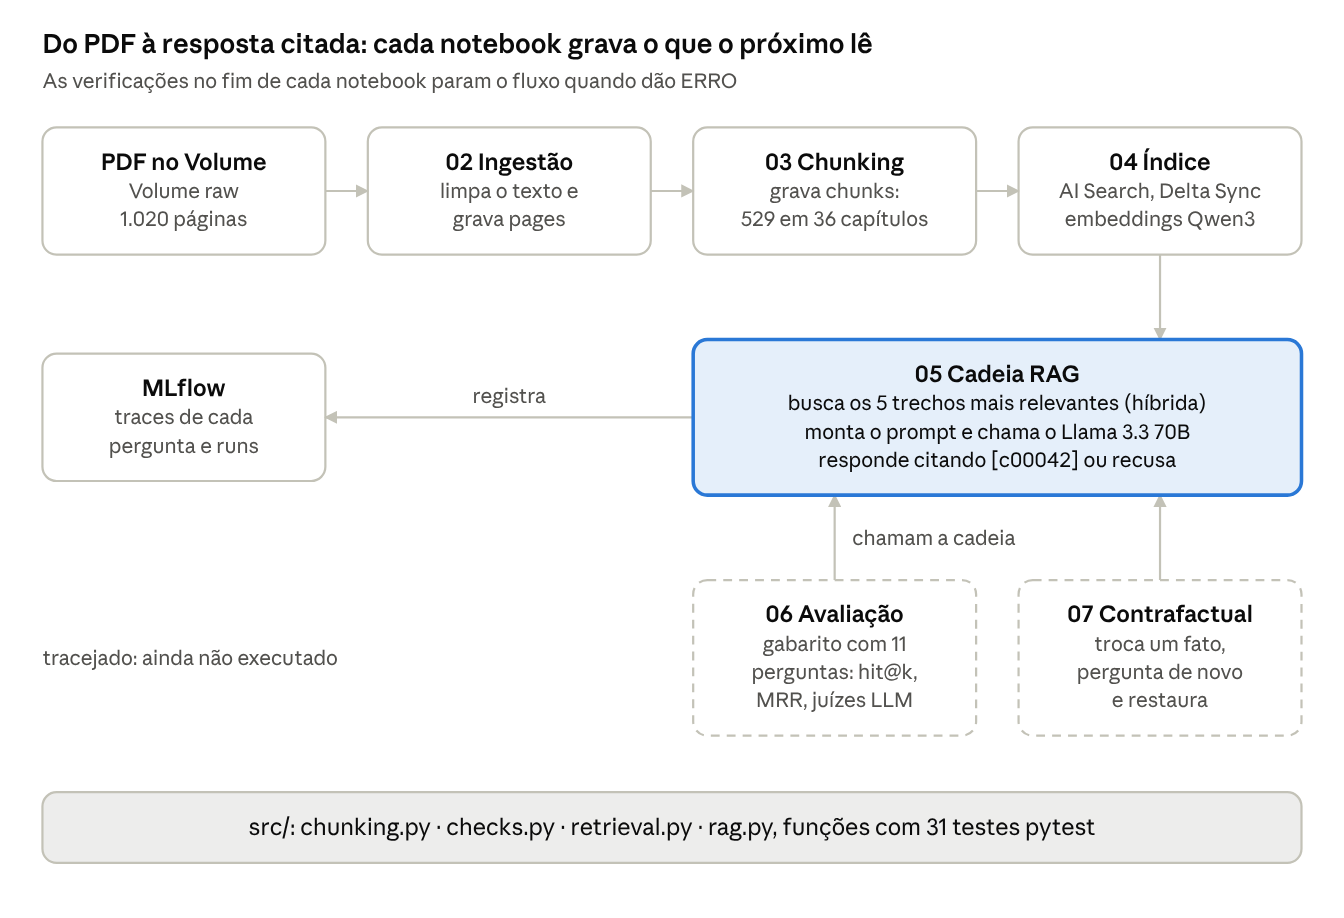
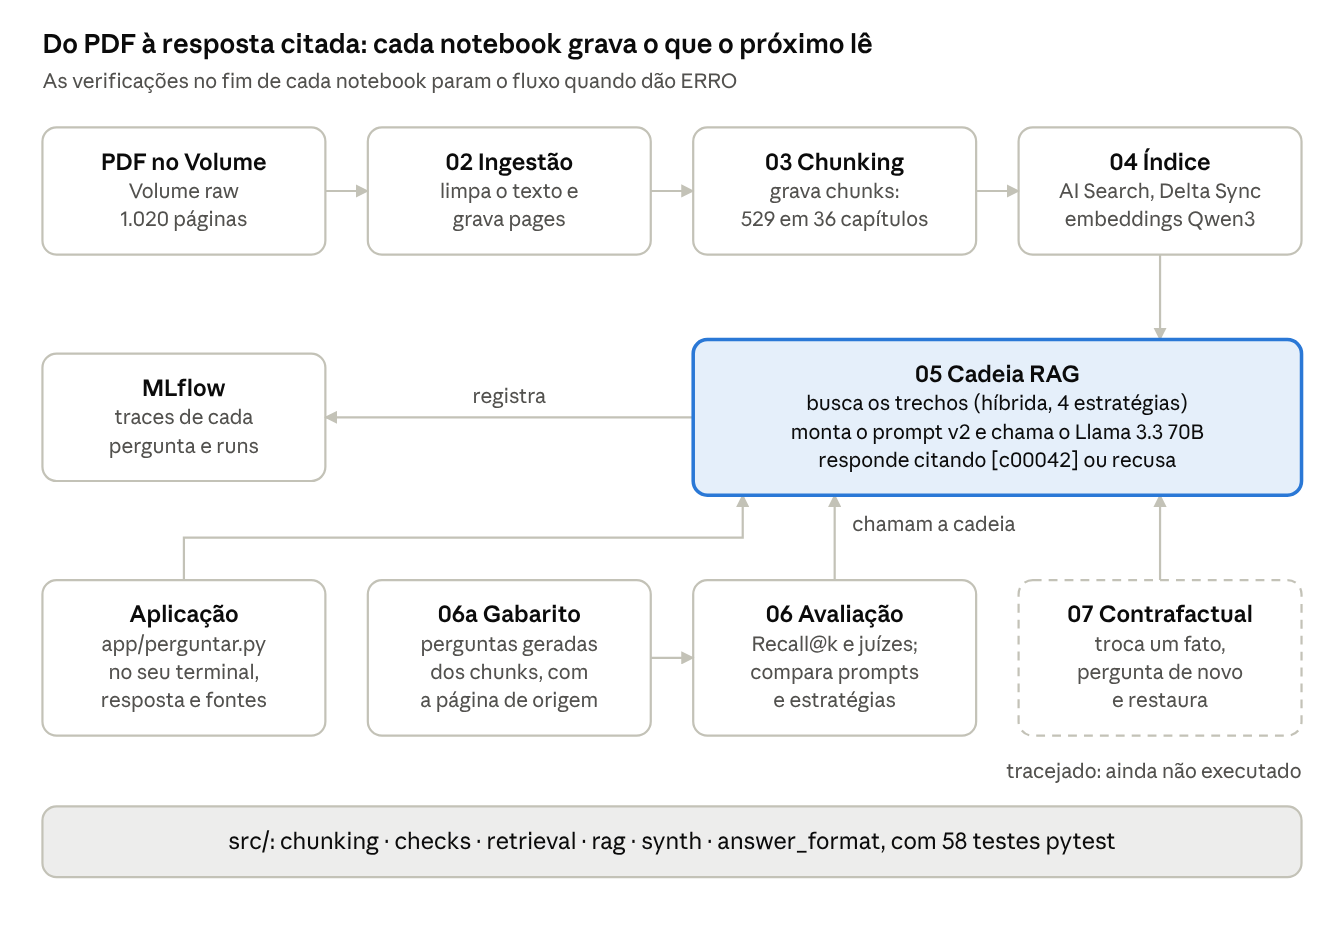
Documentação atualizada até 28/10
- docs/progresso.md: visão geral, linha do tempo, arquitetura com 06a e a
  aplicação, problemas de ambiente, limpeza do texto e extratores, verificações
  do índice, caso dos anéis de poder, aplicação de terminal, resumo da
  avaliação, estratégias de busca, decisões e pendências
- docs/metricas.md (novo): descrição de cada métrica, resultados da busca e dos
  juízes com gráficos, diagnóstico dos erros de correção, prompt v1 × v2,
  LLM sem contexto, limitações e próximos passos
- docs/discussao-avaliacao.md: caminho "medir antes" escolhido e feito

diff --git a/docs/metricas.md b/docs/metricas.md
@@ -1,0 +1,161 @@
+# RAGMarillion — métricas da avaliação
+
+Atualizado em 28/10/2026 · velosomn
+
+Na primeira avaliação com 150 perguntas sintéticas, a busca híbrida com 5 trechos recuperou a página certa em 91,3% das perguntas, contra 84,7% da busca só vetorial com o mesmo número de trechos; é a configuração que o projeto usa. Na correção das respostas, as configurações de busca empatam dentro da variação dos juízes, e o LLM sozinho, sem busca, acerta 0,5. O prompt v2 subiu a correção de 0,73 para 0,80 sem aumentar as recusas indevidas. Dos erros de correção analisados, a maioria vinha do gabarito sintético ou do juiz, não do RAG.
+
+Este documento descreve primeiro cada métrica e depois discute os resultados.
+
+## As métricas
+
+O notebook 06 mede três coisas separadas: se a busca trouxe o trecho certo, se o sistema recusa quando o livro não tem a resposta e se a resposta final está boa. Todas vão de 0 a 1 e, salvo a recusa indevida, quanto maior, melhor. Cada uma é calculada por pergunta e depois tirada a média.
+
+**Busca pela página** (só nas perguntas com `evidence_pages`, as sintéticas e as manuais marcadas). Um trecho recuperado conta como relevante se cobre a página onde está a resposta. Como a página não depende do chunking, a mesma marcação serve para comparar qualquer configuração.
+
+| Métrica (nome no MLflow) | O que mede | Como é calculada, por pergunta |
+| --- | --- | --- |
+| Recall@k (`recall_at_k`) | Se a resposta chegou ao LLM | 1 se algum dos trechos enviados cobre a página da resposta, senão 0 |
+| MRR (`mrr`) | O quão perto do topo está o primeiro trecho certo | 1 ÷ posição do primeiro trecho relevante: 1º lugar vale 1; 2º, 0,5; 3º, 0,33; nenhum, 0 |
+| nDCG@k (`ndcg_at_k`) | O mesmo que o MRR, com desconto mais suave pela posição | 1 ÷ log₂(1 + posição): 1º lugar vale 1; 2º, 0,63; 3º, 0,5; nenhum, 0 |
+| Precisão@k (`precision_at_k`) | Quanto do contexto enviado é útil | Trechos relevantes ÷ trechos enviados. Depende de k: só compare configurações com o mesmo k |
+| Palavras de contexto (`context_words`) | Quanto texto vai ao LLM | Soma das palavras dos trechos enviados. Uma estratégia que manda mais trechos ganha recall só pelo volume |
+| (`n_with_pages`) | Base de cálculo | Quantas perguntas têm páginas marcadas e entraram nas métricas acima |
+
+**Busca por termos** (todas as perguntas com resposta). É uma aproximação: conta como acerto qualquer trecho que contenha um termo esperado, mesmo que seja de outra parte do livro. "Fëanor" aparece em dezenas de capítulos.
+
+| Métrica | O que mede | Como é calculada, por pergunta |
+| --- | --- | --- |
+| hit@k por termos (`hit_terms`) | Se algum trecho menciona a resposta | 1 se algum dos trechos contém algum termo esperado, senão 0 |
+| MRR por termos (`mrr_terms`) | Posição do primeiro trecho com um termo esperado | 1 ÷ posição, como o MRR |
+
+**Recusa.**
+
+| Métrica | O que mede | Como é calculada, por pergunta |
+| --- | --- | --- |
+| Taxa de recusa (`refusal_rate_unanswerable`) | Nas perguntas sem resposta no livro, se o sistema admite que não sabe em vez de inventar | 1 se a resposta contém "Não encontrei isso nos trechos recuperados", senão 0. Quanto maior, melhor |
+| Recusa indevida (`false_refusal_rate`) | Nas perguntas com resposta, se o sistema recusou mesmo assim | Fração das respostas da amostra dos juízes que são a frase de recusa. Quanto menor, melhor: é o custo de um prompt cauteloso |
+
+**Juízes LLM** (numa amostra de 60 perguntas, por custo). Um modelo lê a pergunta, a resposta e, conforme o juiz, os trechos recuperados e a resposta esperada, e dá sim (1) ou não (0) com uma justificativa. São os juízes prontos do MLflow 3.
+
+| Métrica | Pergunta que o juiz responde | O que compara |
+| --- | --- | --- |
+| Correção (`correctness`) | A resposta está certa? | Resposta do sistema × resposta esperada do gabarito |
+| Apoio nos trechos (`retrieval_groundedness`) | O que a resposta afirma está nos trechos recuperados? | Resposta × trechos. Pega o modelo respondendo de memória ou inventando |
+| Suficiência (`retrieval_sufficiency`) | Os trechos recuperados bastavam para chegar à resposta esperada? | Trechos × resposta esperada. Avalia a busca sem depender da página exata, útil quando a resposta aparece em vários lugares |
+
+Na linha de base sem contexto só existe a correção: sem busca, não há trechos para os outros dois juízes avaliarem. Respostas que não chegam a ser geradas (falha de chamada) são contadas em `n_failed_answers`, e o 06 dá ERRO se houver alguma, porque o juiz as trataria como erradas.
+
+## O que foi avaliado
+
+Três configurações de busca e uma linha de base, todas sobre o mesmo gabarito e com o mesmo LLM (Llama 3.3 70B) gerando as respostas.
+
+| Configuração | Busca | Trechos enviados ao LLM |
+| --- | --- | --- |
+| `ann_k3` | Vetorial: trechos de significado mais parecido com a pergunta | 3 |
+| `ann_k5` | Vetorial | 5 |
+| `hybrid_k5` | Híbrida: vetorial somada à busca por palavra-chave | 5 (configuração atual do projeto) |
+| `llm_sem_contexto` | Nenhuma: o LLM responde de memória | 0 |
+
+Os pares isolam uma mudança de cada vez: `ann_k3` × `ann_k5` mostra o efeito de mandar mais trechos, e `ann_k5` × `hybrid_k5` mostra o efeito da busca por palavra-chave.
+
+**Gabarito (conjunto `dev`):**
+
+- 150 perguntas sintéticas, geradas pelo notebook 06a a partir de chunks sorteados da história; são elas que têm páginas marcadas e entram nas métricas de busca pela página;
+- 7 perguntas manuais na primeira rodada: 5 com resposta (factual, apelidos, nomes parecidos e uma de vários saltos, a de Lúthien e Elrond) e 2 sem resposta no livro; depois entraram 2 de consistência, sobre os anéis de poder;
+- os juízes avaliaram 60 perguntas: as manuais com resposta e as demais sintéticas, a mesma amostra para todas as configurações.
+
+O conjunto `test` (cerca de um terço das perguntas) não foi usado: fica reservado para confirmar a configuração escolhida, uma vez só.
+
+## Resultados da busca
+
+![A busca híbrida acerta a página em 91% das perguntas, 7 pontos acima da vetorial](img/metricas-busca.png)
+
+A busca por palavra-chave é o que mais pesa: com o mesmo número de trechos, a híbrida sobe o recall de 0,847 para 0,913 e põe o trecho certo mais perto do topo. As perguntas citam nomes próprios, e é neles que a busca só vetorial falha.
+
+- **A diferença não parece ruído.** A comparação é pareada, nas mesmas perguntas: nas listas de erros visíveis, pelo menos 8 perguntas são acertadas só pela híbrida, contra 2 (`s003` e `s015`) acertadas só pela vetorial. No total, a híbrida erra 14 perguntas; a vetorial com 5 trechos, 24; com 3, 30.
+- **Mais trechos ajudam menos:** de 3 para 5 trechos, o recall da vetorial sobe 4 pontos, e o MRR quase não muda, porque o trecho certo, quando vem, já costuma estar entre os primeiros.
+- **Precisão@k fica de fora do gráfico** porque depende de k. Com 5 trechos, a híbrida também traz mais trechos úteis (0,305 contra 0,263 da vetorial).
+- **Busca por termos:** 0,98 a 0,99 nas três, alta demais para separar configurações; confirma que ela é uma aproximação fraca.
+- **Erros comuns:** 9 perguntas falham nas três configurações. Podem ser falhas de busca ou perguntas ruins no gabarito, e precisam ser conferidas antes de buscar soluções para elas.
+
+A configuração atual do projeto, `hybrid_k5`, é a melhor das três na busca.
+
+## Resultados dos juízes
+
+![O RAG acerta cerca de 72% das respostas; o LLM sozinho, 50%](img/metricas-juizes.png)
+
+**Causa confirmada: limite de chamadas.** Na primeira rodada, 30 das 60 respostas da `hybrid_k5` e 32 das 60 da linha de base falharam por excesso de chamadas no Free Edition e foram contadas como incorretas, derrubando a correção para 0,317 e 0,2. O notebook 06 agora repete cada chamada que falha, faz uma pausa entre configurações e dá ERRO se alguma resposta não for gerada. No gráfico, essas duas linhas vêm da segunda rodada, sem nenhuma falha.
+
+**A híbrida empata na correção.** 0,717 contra 0,733 da vetorial com 5 trechos é uma pergunta de diferença em 60. A busca melhor não virou mais acertos nesta amostra.
+
+**Os juízes variam entre rodadas.** A suficiência da híbrida foi 0,917 na primeira rodada e 0,883 na segunda, com exatamente os mesmos trechos: 2 perguntas de diferença só pela variação do juiz. Com 60 perguntas, diferenças de até cerca de 5 pontos nos juízes não devem decidir nada.
+
+**A maior perda está na geração, não na busca.** Em cerca de 88% das perguntas os trechos bastavam, mas só cerca de 72% das respostas estão certas: em uns 10 casos o modelo tinha o necessário e errou. O diagnóstico desses casos está abaixo.
+
+O apoio nos trechos fica alto em todas as configurações (0,88 a 0,97): o modelo responde com base no que recebe, e não de memória.
+
+## Diagnóstico dos erros de correção
+
+Na `hybrid_k5` (prompt v1), 10 perguntas tiveram suficiência "sim" e correção "não": os trechos bastavam, mas a resposta foi julgada errada. Só 3 são falhas do RAG.
+
+| Caso | O que aconteceu | Causa |
+| --- | --- | --- |
+| `s015` Novo nome de Beren | O livro dá dois nomes (Erchamion e Camlost); o modelo deu um, o gabarito esperava o outro | Gabarito: duas respostas certas |
+| `s050` Filha de Morwen e Húrin | Eles tiveram duas filhas (Lalaith e Nienor); o modelo citou a outra | Gabarito: duas respostas certas |
+| `s176` O que Sauron desejava? | Pergunta vaga; a resposta detalhada sai do trecho | Gabarito: pergunta vaga |
+| `s019` O que aconteceu com Húrin? | A resposta esperada não fala de Húrin | Gabarito: pergunta e resposta não combinam |
+| `s031` Espada de Elendil | "Ficou partida" e "quebrou" são o mesmo; o juiz concordou na justificativa e marcou "não" | Juiz inconsistente |
+| `s089` Morada de Caranthir | "Helevorn" e "Helevom" (grafia dupla no PDF) | Juiz rígido com a grafia |
+| `s016` Glaurung e Túrin | A resposta inclui a libertação; o juiz exigiu a palavra exata | Juiz rígido |
+| `q04` Nomes de Túrin | Citou 3 de 4 nomes | RAG: resposta incompleta |
+| `s165` O que Sauron disse aos homens | Resumiu só parte do trecho | RAG: resposta incompleta |
+| `s168` Amandil após zarpar | Recusou, com a resposta nos trechos | RAG: recusa por cautela |
+
+Se os 7 casos de gabarito e juiz forem descontados, a correção real fica perto de 0,83. Os problemas do gabarito vêm de como o 06a gera as perguntas: uma pergunta pode ter resposta única no trecho, mas mais de uma no livro. O prompt de geração precisa exigir resposta única no livro inteiro.
+
+## Prompt v1 × v2
+
+O v2 pede para afirmar só o que os trechos dizem, com a mesma força ("participou" não vira "criou"), citar o trecho certo, listar todos os itens e responder em parte em vez de recusar. Foi comparado com o v1 na `hybrid_k5`, com o texto já limpo de novo, em 152 perguntas com páginas e 60 nos juízes, sem nenhuma resposta com falha.
+
+| | Correção | Apoio nos trechos | Suficiência | Recusa indevida | Recusa sem resposta |
+| --- | --- | --- | --- | --- | --- |
+| v1 | 0,733 | 0,950 | 0,917 | 0,049 | 1,0 |
+| v2 | 0,800 | 0,933 | 0,867 | 0,033 | 1,0 |
+
+A suficiência só avalia os trechos, que são idênticos nas duas linhas, e mesmo assim variou 5 pontos: é a medida do ruído dos juízes. A correção subiu 6,7 pontos, um pouco acima disso, e a recusa indevida caiu; o v2 virou o padrão. A busca não mudou: Recall@5 de 0,914.
+
+## LLM sem contexto
+
+Com todas as respostas geradas, o Llama 3.3 70B respondendo de memória acertou 0,5 das 60 perguntas, contra cerca de 0,72 do RAG: 22 pontos, ou 13 perguntas. O 0,2 da primeira rodada era efeito das chamadas que falharam.
+
+- **O modelo sabe mais do livro do que o esperado:** acerta de memória metade dos detalhes de trechos sorteados.
+- **Mas erra sem avisar e mistura obras:** uma das respostas cita o "Conselho de Elrond" e o Anel encontrado por Bilbo, que são de *O Senhor dos Anéis*, não do Silmarillion.
+- **Um viés a favor do RAG continua:** as perguntas foram criadas a partir do texto desta tradução, e o LLM sozinho pode acertar o fato com outras palavras ou outra grafia de nome. O juiz tolera paráfrase, mas não se sabe quanto.
+
+Nas perguntas manuais, mais famosas, a diferença deve ser menor; com 5 delas, não há base para separar.
+
+## Limitações desta rodada
+
+| Limitação | Efeito | Como resolver |
+| --- | --- | --- |
+| Ruído do gabarito ainda desconhecido | Não se sabe que diferença é pequena demais para importar | Concluir a revisão das 30 perguntas no 06a e registrar a taxa de erro |
+| Uma página de evidência por pergunta | Se a resposta também aparece em outra página, a busca que a traz é contada como erro | Olhar a suficiência ao lado do recall; conferir as 9 perguntas que todas as configurações erram |
+| Perguntas sintéticas de um trecho só | Nada mede perguntas de vários saltos, como a de Lúthien e Elrond (há só uma no `dev`) | Gerar perguntas de dois trechos e medir o recall completo |
+| Juízes numa amostra de 60 | Cada pergunta vale cerca de 0,017 nas médias dos juízes | Ampliar a amostra quando a diferença entre duas configurações for pequena |
+| Uma única execução | Respostas e juízes podem variar um pouco entre execuções | Repetir as configurações finalistas |
+| Mesmo modelo gera e responde | Com a configuração padrão, o Llama cria as perguntas e também responde a elas, o que tende a deixar a avaliação otimista | Usar outro modelo em `SYNTH_LLM_ENDPOINT`, se houver em Serving |
+
+## Próximos passos
+
+- [x] Verificar a correção da `hybrid_k5` no MLflow: 30 respostas tinham falhado por limite de chamadas.
+- [x] Repetir a `hybrid_k5` e a linha de base com novas tentativas e pausas: nenhuma falha na segunda rodada.
+- [x] Ver os casos com suficiência "sim" e correção "não": 7 de 10 eram gabarito ou juiz.
+- [x] Comparar os prompts v1 e v2: ficou o v2.
+- [ ] Registrar a taxa de erro da revisão das 30 perguntas sintéticas.
+- [ ] Melhorar o prompt do 06a (resposta única no livro inteiro, sem perguntas vagas) e regerar.
+- [ ] Gerar as perguntas sintéticas de dois trechos e acrescentar o recall completo.
+- [ ] Avaliar as estratégias de busca (`vizinhos`, `diversa`, `por_nome`), já implementadas, comparando também `context_words`.
+- [ ] Ampliar a amostra dos juízes para reduzir o ruído.
+- [ ] Corrigir a ordem do Job: o `evaluate` deve depender do `Gabarito`.
+
+O andamento geral do projeto está em [progresso.md](progresso.md), e o raciocínio por trás desta avaliação, em [discussao-avaliacao.md](discussao-avaliacao.md).

diff --git a/docs/discussao-avaliacao.md b/docs/discussao-avaliacao.md
@@ -1,6 +1,6 @@
 # Discussão: como avaliar o RAG
 
-Atualizado em 24/10/2026 · velosomn
+Atualizado em 28/10/2026 · velosomn
 
 A falha na pergunta sobre Lúthien e Elrond levou a quatro conclusões sobre como evoluir o RAG sem perseguir casos isolados:
 
@@ -107,17 +107,21 @@ Neste livro, um LLM sozinho já responderia bem à maioria das perguntas. O Silm
 
 ## Decisões e próximos passos
 
-Nenhuma mudança na busca foi feita: a pergunta sobre Lúthien e Elrond continua sendo recusada. Está em aberto qual caminho seguir.
+Foi escolhido o caminho A, "medir antes", e ele já foi feito: o gabarito sintético, as métricas por página, os juízes e a linha de base sem contexto rodaram em 24/10. As estratégias de busca foram implementadas depois, em 28/10, como opções comparáveis; a pergunta sobre Lúthien e Elrond só deve melhorar com elas, e isso ainda não foi medido.
 
 | Caminho | O que inclui | Prós e contras |
 | --- | --- | --- |
 | A. Medir antes | Gerar as perguntas sintéticas; acrescentar ao 06 Recall@k, nDCG, o juiz `RetrievalSufficiency` e a linha de base sem contexto; depois implementar as estratégias como opções comparáveis | Escolha sólida, sem overfitting; a pergunta da Lúthien só melhora depois de tudo isso |
 | B. Implementar já, decidir depois | Criar `diversa`, `por_nome` e `em_etapas` no `00_config`, com o padrão `simples`, e testar a pergunta da Lúthien com cada uma | Mostra logo se alguma resolve o caso; a escolha definitiva continua sendo pela métrica |
 
-Nos dois caminhos, nenhuma estratégia vira padrão por ter acertado uma pergunta isolada.
+Nos dois caminhos, nenhuma estratégia vira padrão por ter acertado uma pergunta isolada. A avaliação também mostrou que, hoje, o maior ruído está no gabarito sintético: dos 10 casos em que os trechos bastavam e a resposta saiu errada, 7 eram perguntas com mais de uma resposta certa, perguntas vagas ou rigidez do juiz.
 
-- [ ] Escolher entre os caminhos A e B.
-- [ ] Criar o notebook `06a_gerar_gabarito` (sorteio, geração, filtros, tabela no Databricks, amostra para revisão).
+- [x] Escolher entre os caminhos A e B: foi o A.
+- [x] Criar o notebook `06a_gerar_gabarito` (sorteio, geração, filtros, tabela no Databricks, amostra para revisão).
 - [ ] Revisar cerca de 30 perguntas sintéticas e registrar a taxa de erro.
-- [ ] Acrescentar ao 06 Recall@k, Recall completo@k, nDCG@k, `RetrievalSufficiency` e a linha de base sem contexto.
+- [x] Acrescentar ao 06 Recall@k, nDCG@k, `RetrievalSufficiency` e a linha de base sem contexto.
+- [ ] Recall completo@k, que depende das perguntas sintéticas de dois trechos.
 - [ ] Escrever a regra de decisão no `00_config` antes de comparar estratégias e chunkings.
+- [x] Implementar as estratégias `vizinhos`, `diversa` e `por_nome` como opções; falta avaliá-las.
+
+Os resultados da avaliação estão em [metricas.md](metricas.md).

diff --git a/README.md b/README.md
@@ -9,7 +9,7 @@ modelo usa o contexto ou a memória.
 > contém **apenas código**. O PDF, os chunks e as saídas dos notebooks não são versionados.
 > Para reproduzir, use a sua própria cópia do livro.
 
-**Andamento:** o que já foi feito, os resultados e os próximos passos estão em [docs/progresso.md](docs/progresso.md).
+**Andamento:** o que já foi feito e os próximos passos estão em [docs/progresso.md](docs/progresso.md); as métricas e os resultados da avaliação, em [docs/metricas.md](docs/metricas.md); e o raciocínio por trás da avaliação, em [docs/discussao-avaliacao.md](docs/discussao-avaliacao.md).
 
 ---
 
